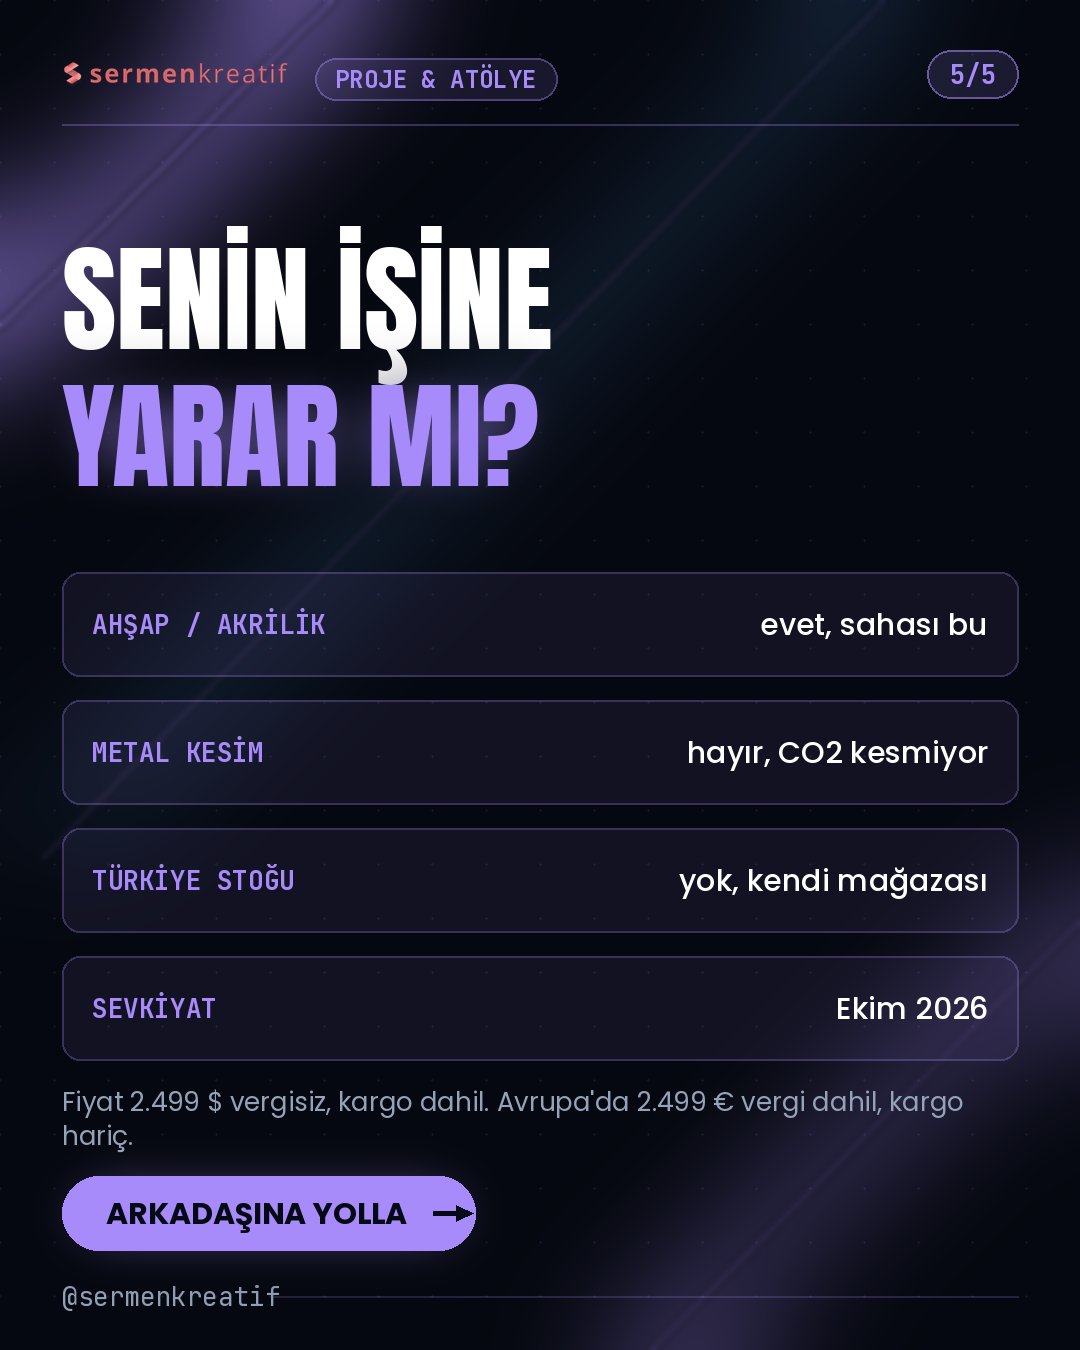
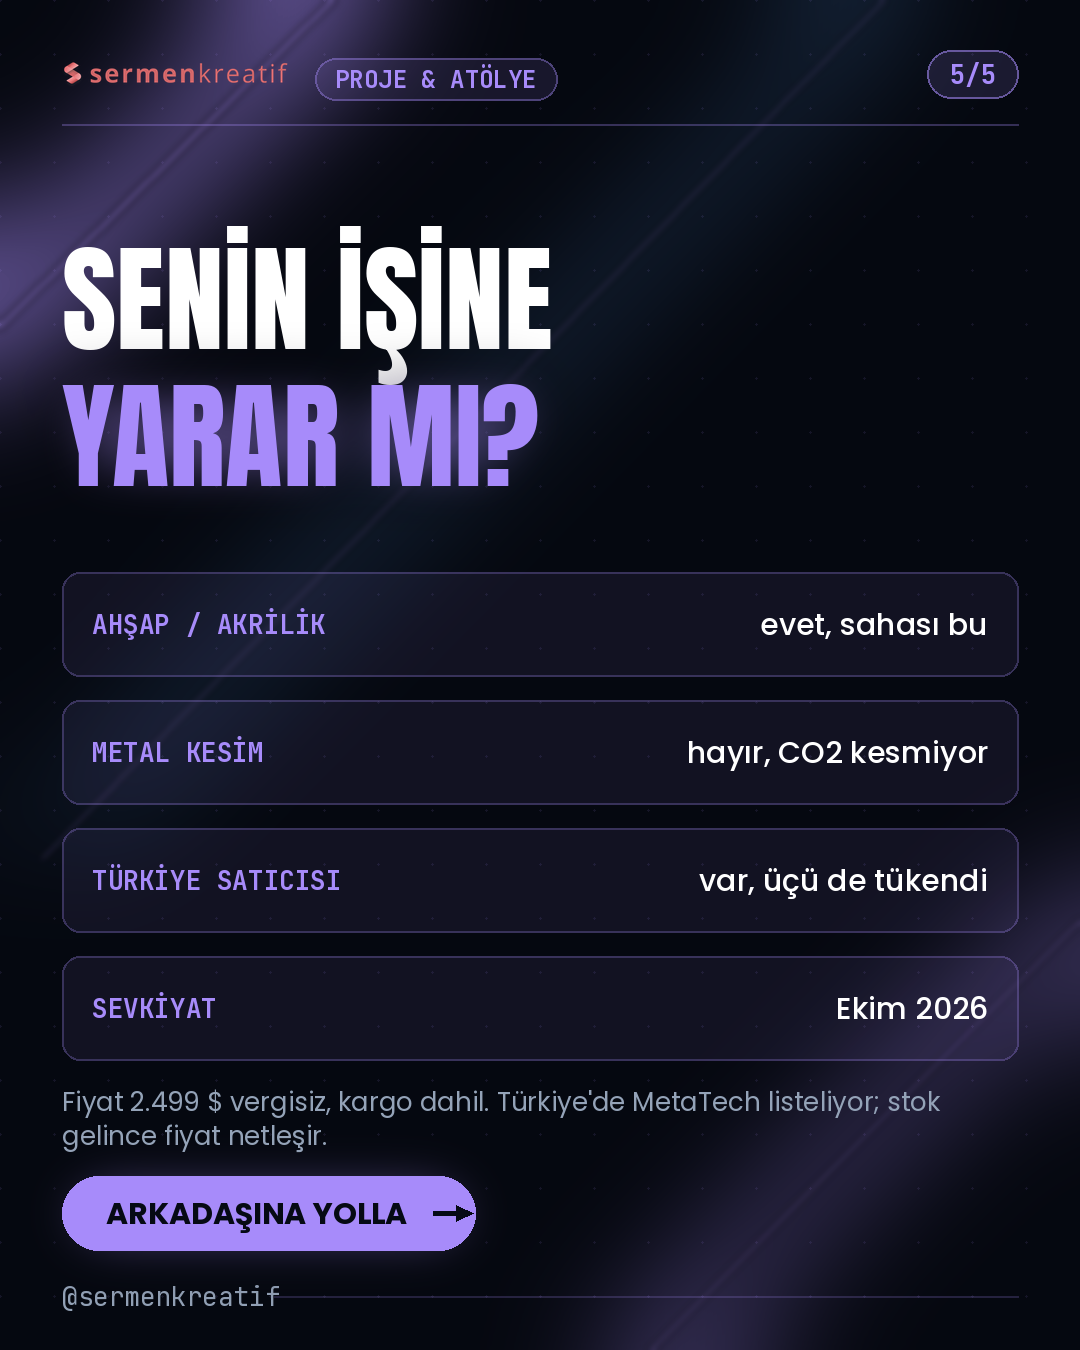
R1 tanıtımı: Türkiye satıcısı düzeltildi (MetaTech, üç varyant da tükendi)
Claude-Session: https://claude.ai/code/session_01DAKoXHyqFjWGSzqcjwTyja

diff --git a/2026-10-10-bambu-r1-tanitim/metin.md b/2026-10-10-bambu-r1-tanitim/metin.md
@@ -12,7 +12,7 @@ Güvenlik → kapalı kullanımda Class 1. Kapak açılınca lazer duruyor, alev
 
 Dikkat edilecek yer: 2.499 dolar gövdenin fiyatı. Konveyör, Vision Encoder, ayna hizalama sensörü, otomatik yangın söndürme ve E1 Pro hava temizleyici ayrı satılıyor.
 
-Türkiye'de resmi stok yok, satış şimdilik Bambu Lab'in kendi mağazasından.
+Türkiye tarafı → MetaTech üç varyantı da listelemiş: standart R1, Long Material Bundle ve Long Material & Rotary Bundle. Üçü de şu an tükenmiş görünüyor ve fiyat sayfada yazmıyor. Yani makine Türkiye'ye geliyor, sırayı beklemek gerekiyor.
 
 Atölyesine lazer almayı konuşan bir arkadaşın varsa bu gönderiyi ona yolla.
 
